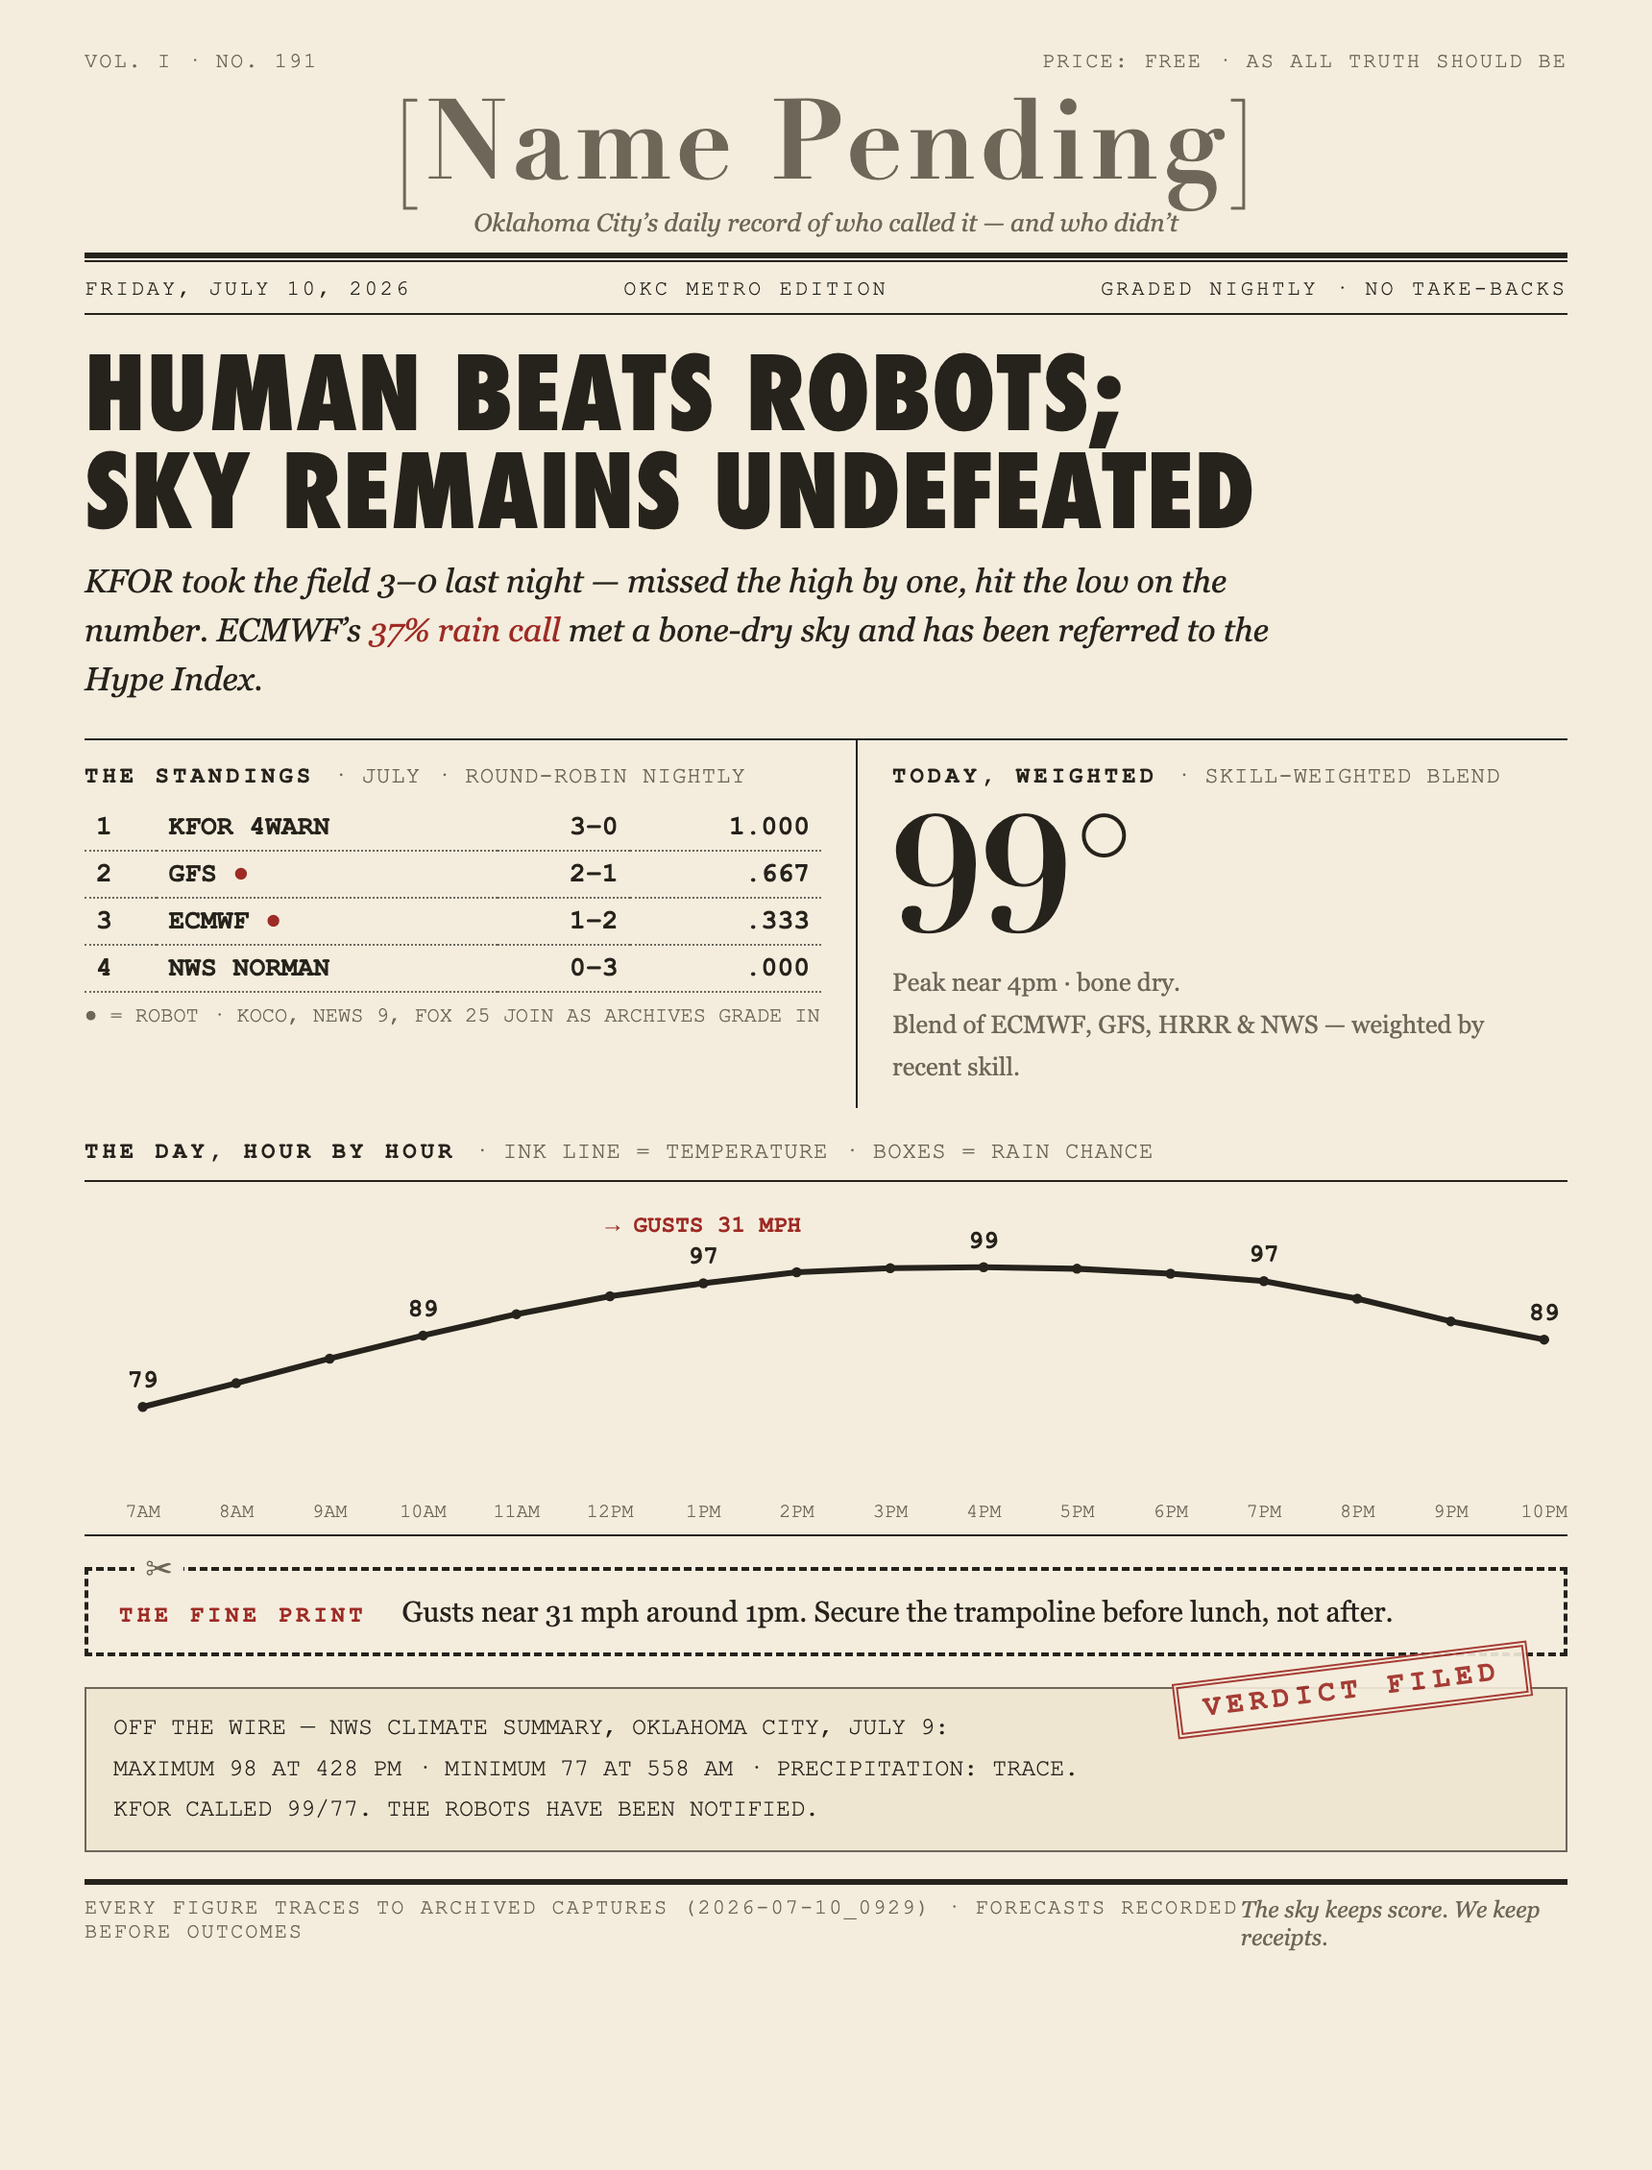
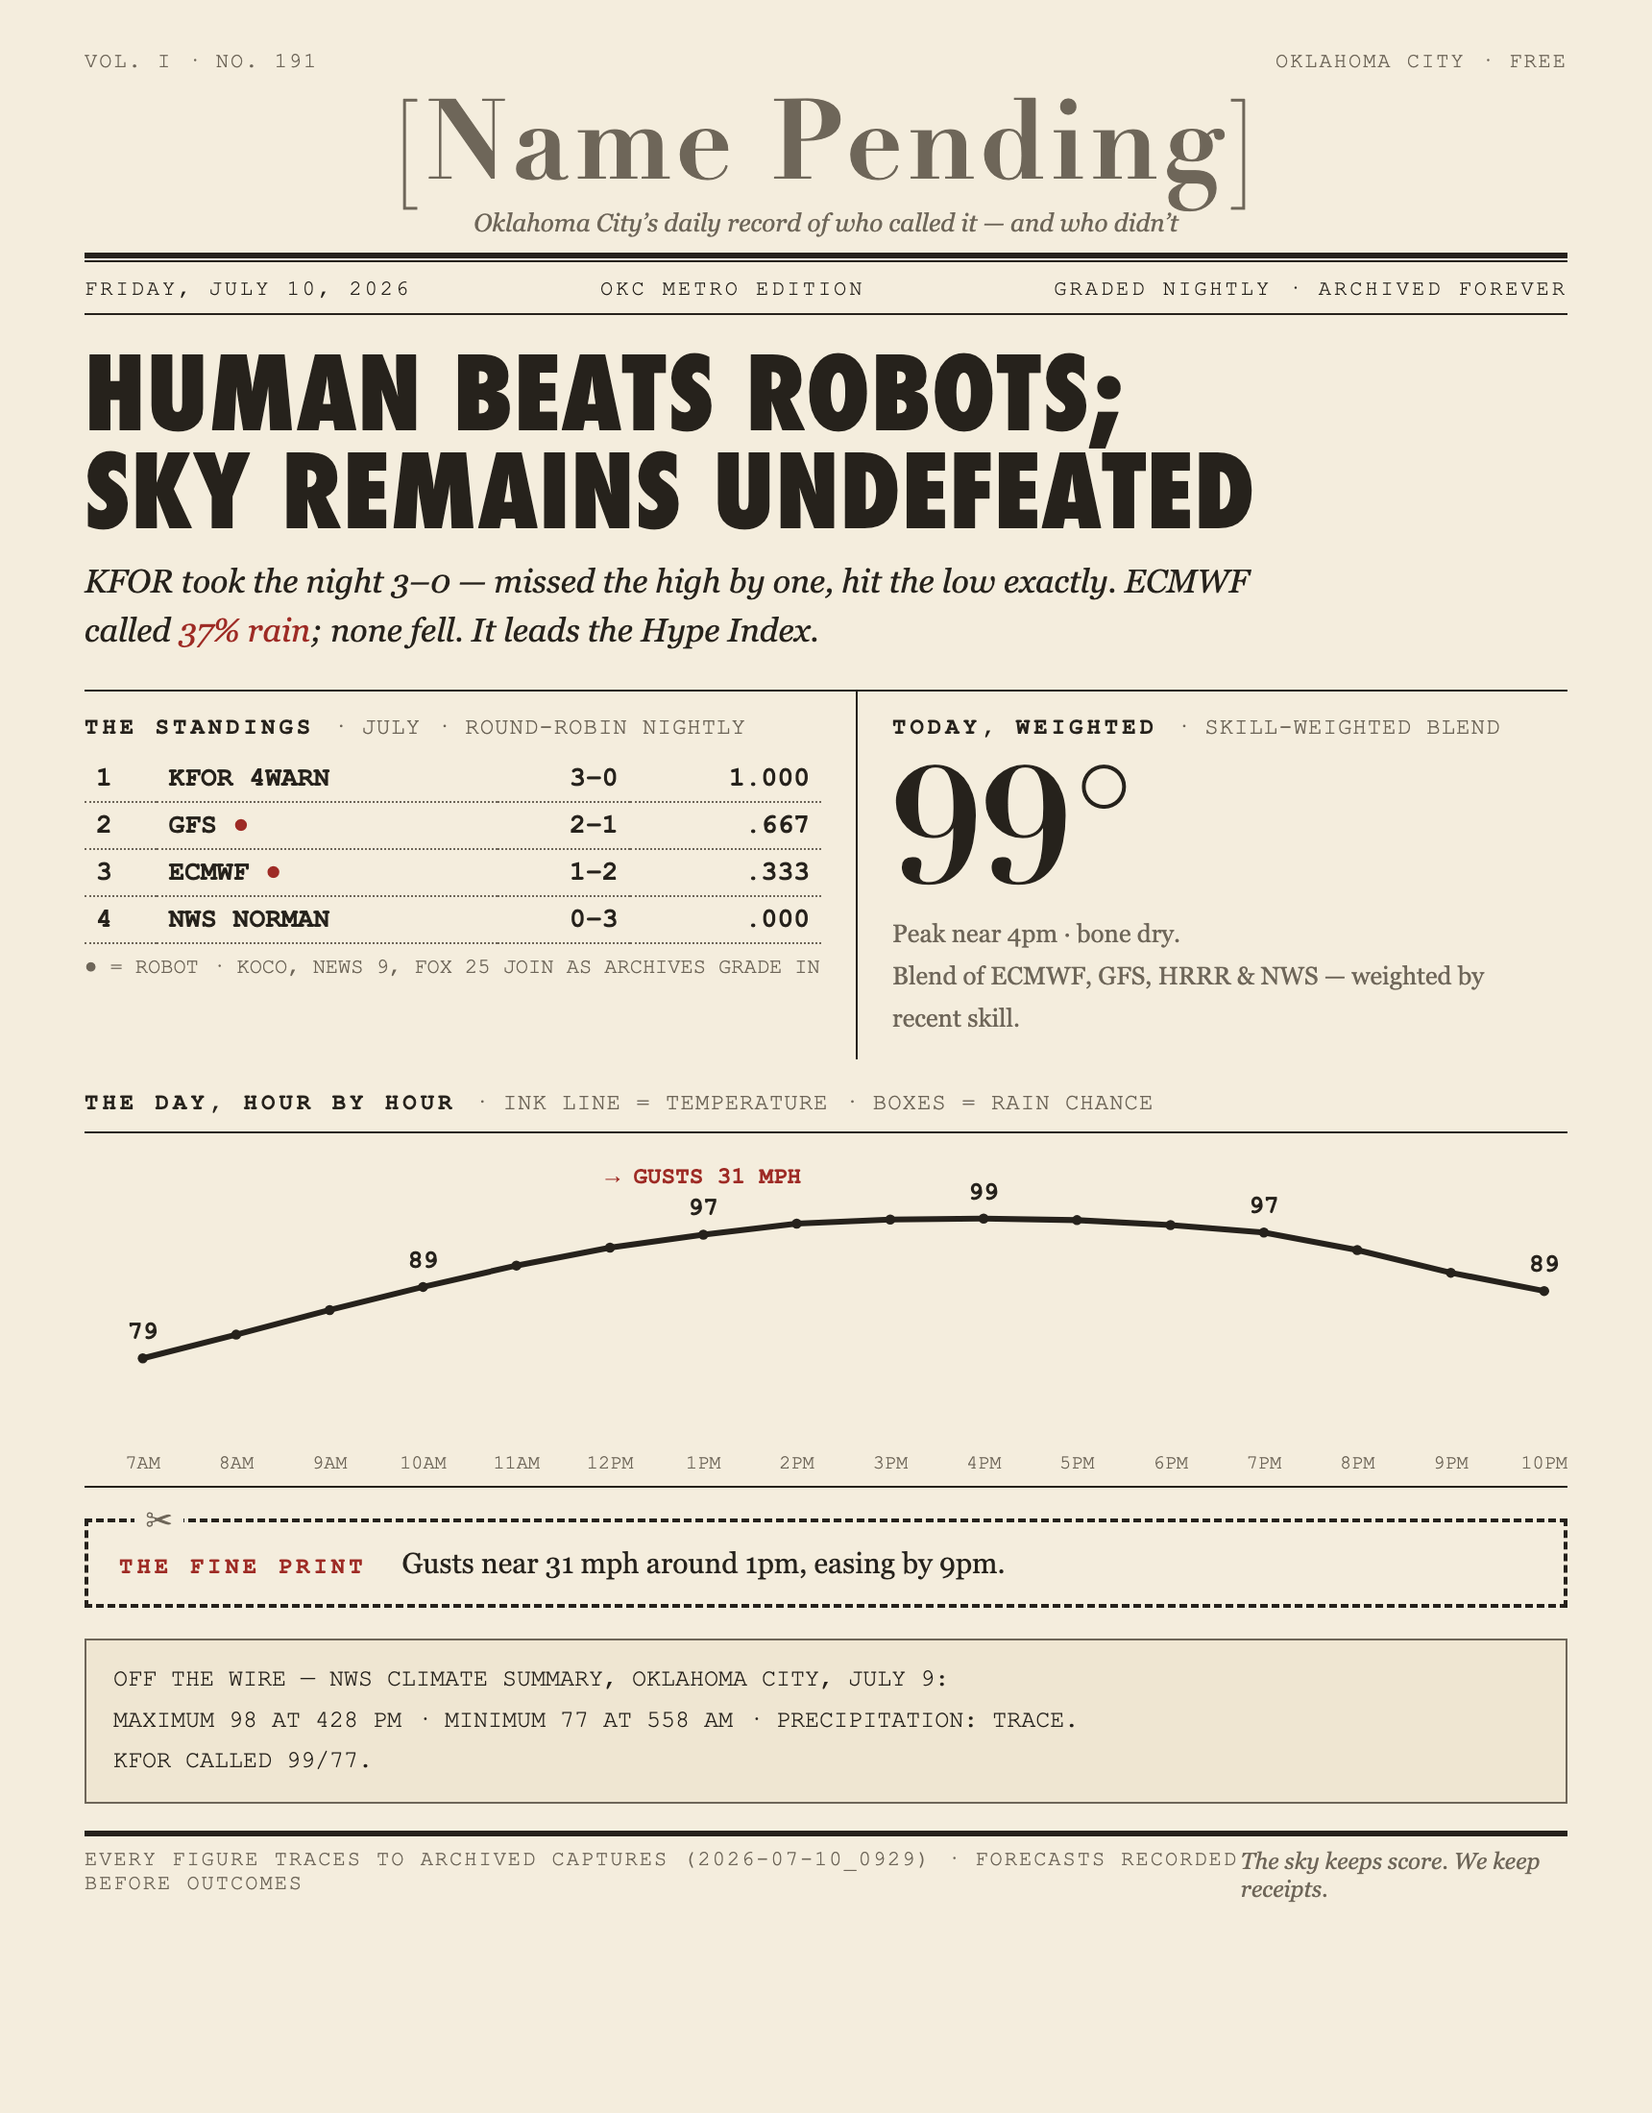
weather-oracle: v3.1 de-corn pass — stamp cut, utility copy straightened; voice law codified
Josh's editorial rule: the paper is the straight man, corniness stays with
the newscasters. Humor budget = the headline finding only.

diff --git a/products/weather-oracle/design/daily_v3.html b/products/weather-oracle/design/daily_v3.html
@@ -29,13 +29,12 @@
   .coupon b { font:700 12px 'Courier New', monospace; letter-spacing:2px; color:var(--red); }
   .coupon .scis { position:absolute; top:-12px; left:24px; background:var(--paper); padding:0 6px; font-size:14px; color:var(--faded); }
   .wire { background:#efe6d2; border:1px solid var(--faded); padding:10px 14px; font:12.5px/1.7 'Courier New', monospace; text-transform:uppercase; white-space:pre-wrap; position:relative; margin-bottom:14px; }
-  .stamp { position:absolute; right:18px; top:-14px; transform:rotate(-7deg); border:3px double var(--red); color:var(--red); padding:3px 12px; font:700 15px 'Courier New', monospace; letter-spacing:3px; background:var(--paper); opacity:.9; }
   .foot { border-top:3px solid var(--ink); padding-top:6px; display:flex; justify-content:space-between; font:11px 'Courier New', monospace; color:var(--faded); text-transform:uppercase; letter-spacing:1px; }
   .foot i { font:italic 12px Georgia, serif; text-transform:none; letter-spacing:0; }
 </style></head><body>
   <div class="ears">
     <div>Vol. I &middot; No. 191</div>
-    <div>Price: free &middot; as all truth should be</div>
+    <div>Oklahoma City &middot; free</div>
   </div>
   <div class="masthead"><span>[Name Pending]</span></div>
   <div class="mastline">Oklahoma City&rsquo;s daily record of who called it &mdash; and who didn&rsquo;t</div>
@@ -43,11 +42,11 @@
   <div class="dateline">
     <div>Friday, July 10, 2026</div>
     <div>OKC metro edition</div>
-    <div>Graded nightly &middot; no take-backs</div>
+    <div>Graded nightly &middot; archived forever</div>
   </div>
 
   <div class="headline">Human beats robots;<br>sky remains undefeated</div>
-  <div class="deck">KFOR took the field 3&ndash;0 last night &mdash; missed the high by one, hit the low on the number. ECMWF&rsquo;s <span class="rot">37% rain call</span> met a bone-dry sky and has been referred to the Hype Index.</div>
+  <div class="deck">KFOR took the night 3&ndash;0 &mdash; missed the high by one, hit the low exactly. ECMWF called <span class="rot">37% rain</span>; none fell. It leads the Hype Index.</div>
 
   <div class="cols">
     <div style="flex:1.15">
@@ -70,11 +69,11 @@
   <h3>The day, hour by hour <em>&middot; ink line = temperature &middot; boxes = rain chance</em></h3>
   <div class="strip"><svg viewBox="0 0 764 170" xmlns="http://www.w3.org/2000/svg" style="width:100%;display:block"><polyline points="30.0,108.0 78.1,95.8 126.3,83.1 174.4,71.2 222.5,60.2 270.7,51.0 318.8,44.3 366.9,38.6 415.1,36.5 463.2,36.0 511.3,36.8 559.5,39.3 607.6,43.2 655.7,52.2 703.9,63.9 752.0,73.3" fill="none" stroke="#26221c" stroke-width="3"/><circle cx="30.0" cy="108.0" r="2.6" fill="#26221c"/><text x="30.0" y="98.0" text-anchor="middle" font-family="Courier New" font-weight="700" font-size="13" fill="#26221c">79</text><text x="30.0" y="165" text-anchor="middle" font-family="Courier New" font-size="10" fill="#6e6659">7AM</text><circle cx="78.1" cy="95.8" r="2.6" fill="#26221c"/><text x="78.1" y="165" text-anchor="middle" font-family="Courier New" font-size="10" fill="#6e6659">8AM</text><circle cx="126.3" cy="83.1" r="2.6" fill="#26221c"/><text x="126.3" y="165" text-anchor="middle" font-family="Courier New" font-size="10" fill="#6e6659">9AM</text><circle cx="174.4" cy="71.2" r="2.6" fill="#26221c"/><text x="174.4" y="61.2" text-anchor="middle" font-family="Courier New" font-weight="700" font-size="13" fill="#26221c">89</text><text x="174.4" y="165" text-anchor="middle" font-family="Courier New" font-size="10" fill="#6e6659">10AM</text><circle cx="222.5" cy="60.2" r="2.6" fill="#26221c"/><text x="222.5" y="165" text-anchor="middle" font-family="Courier New" font-size="10" fill="#6e6659">11AM</text><circle cx="270.7" cy="51.0" r="2.6" fill="#26221c"/><text x="270.7" y="165" text-anchor="middle" font-family="Courier New" font-size="10" fill="#6e6659">12PM</text><circle cx="318.8" cy="44.3" r="2.6" fill="#26221c"/><text x="318.8" y="34.3" text-anchor="middle" font-family="Courier New" font-weight="700" font-size="13" fill="#26221c">97</text><text x="318.8" y="165" text-anchor="middle" font-family="Courier New" font-size="10" fill="#6e6659">1PM</text><text x="318.8" y="18" text-anchor="middle" font-family="Courier New" font-weight="700" font-size="12" fill="#9e2b25">→ GUSTS 31 MPH</text><circle cx="366.9" cy="38.6" r="2.6" fill="#26221c"/><text x="366.9" y="165" text-anchor="middle" font-family="Courier New" font-size="10" fill="#6e6659">2PM</text><circle cx="415.1" cy="36.5" r="2.6" fill="#26221c"/><text x="415.1" y="165" text-anchor="middle" font-family="Courier New" font-size="10" fill="#6e6659">3PM</text><circle cx="463.2" cy="36.0" r="2.6" fill="#26221c"/><text x="463.2" y="26.0" text-anchor="middle" font-family="Courier New" font-weight="700" font-size="13" fill="#26221c">99</text><text x="463.2" y="165" text-anchor="middle" font-family="Courier New" font-size="10" fill="#6e6659">4PM</text><circle cx="511.3" cy="36.8" r="2.6" fill="#26221c"/><text x="511.3" y="165" text-anchor="middle" font-family="Courier New" font-size="10" fill="#6e6659">5PM</text><circle cx="559.5" cy="39.3" r="2.6" fill="#26221c"/><text x="559.5" y="165" text-anchor="middle" font-family="Courier New" font-size="10" fill="#6e6659">6PM</text><circle cx="607.6" cy="43.2" r="2.6" fill="#26221c"/><text x="607.6" y="33.2" text-anchor="middle" font-family="Courier New" font-weight="700" font-size="13" fill="#26221c">97</text><text x="607.6" y="165" text-anchor="middle" font-family="Courier New" font-size="10" fill="#6e6659">7PM</text><circle cx="655.7" cy="52.2" r="2.6" fill="#26221c"/><text x="655.7" y="165" text-anchor="middle" font-family="Courier New" font-size="10" fill="#6e6659">8PM</text><circle cx="703.9" cy="63.9" r="2.6" fill="#26221c"/><text x="703.9" y="165" text-anchor="middle" font-family="Courier New" font-size="10" fill="#6e6659">9PM</text><circle cx="752.0" cy="73.3" r="2.6" fill="#26221c"/><text x="752.0" y="63.3" text-anchor="middle" font-family="Courier New" font-weight="700" font-size="13" fill="#26221c">89</text><text x="752.0" y="165" text-anchor="middle" font-family="Courier New" font-size="10" fill="#6e6659">10PM</text></svg></div>
 
-  <div class="coupon"><span class="scis">&#9986;</span><b>THE FINE PRINT&nbsp;&nbsp;</b>Gusts near 31 mph around 1pm. Secure the trampoline before lunch, not after.</div>
+  <div class="coupon"><span class="scis">&#9986;</span><b>THE FINE PRINT&nbsp;&nbsp;</b>Gusts near 31 mph around 1pm, easing by 9pm.</div>
 
-  <div class="wire"><div class="stamp">VERDICT FILED</div>OFF THE WIRE &mdash; NWS CLIMATE SUMMARY, OKLAHOMA CITY, JULY 9:
+  <div class="wire">OFF THE WIRE &mdash; NWS CLIMATE SUMMARY, OKLAHOMA CITY, JULY 9:
 MAXIMUM 98 AT 428 PM &middot; MINIMUM 77 AT 558 AM &middot; PRECIPITATION: TRACE.
-KFOR CALLED 99/77. THE ROBOTS HAVE BEEN NOTIFIED.</div>
+KFOR CALLED 99/77.</div>
 
   <div class="foot">
     <div>Every figure traces to archived captures (2026-07-10_0929) &middot; forecasts recorded before outcomes</div>

diff --git a/products/weather-oracle/design/build_daily_v3.py b/products/weather-oracle/design/build_daily_v3.py
@@ -69,15 +69,17 @@ rain_line = (f'rain window {ampm(rain_hours[0])}–{ampm(rain_hours[-1] + 1)} ({
              if rain_hours else ('a stray shower at most' if max_pop >= 15 else 'bone dry'))
 
 if max_gust_row['gust'] >= 25:
-    fine_print = (f'Gusts near {round(max_gust_row["gust"])} mph around {ampm(max_gust_row["h"]).lower()}. '
-                  'Secure the trampoline before lunch, not after.')
+    calm = next((ampm(h['h']).lower() for h in hours
+                 if h['h'] > max_gust_row['h'] and h['gust'] < 20), None)
+    fine_print = (f'Gusts near {round(max_gust_row["gust"])} mph around {ampm(max_gust_row["h"]).lower()}'
+                  + (f', easing by {calm}.' if calm else ' through the afternoon.'))
 elif max_feels_row and (max_feels_row['feels'] - peak['temp']) >= 4:
     fine_print = (f'Feels-like tops {round(max_feels_row["feels"])}° at {ampm(max_feels_row["h"]).lower()} — '
-                  f'{round(max_feels_row["feels"] - peak["temp"])}° hotter than any number said on TV.')
+                  f'{round(max_feels_row["feels"] - peak["temp"])}° above the air temperature.')
 elif rain_hours:
-    fine_print = f'The rain, if it comes, is a {ampm(rain_hours[0]).lower()}–{ampm(rain_hours[-1] + 1).lower()} problem. The morning is spoken for.'
+    fine_print = f'Rain, if any, arrives {ampm(rain_hours[0]).lower()}–{ampm(rain_hours[-1] + 1).lower()}. Dry until then.'
 else:
-    fine_print = 'No wind story, no rain story, no heat trick. A forecast with nothing to hide.'
+    fine_print = 'No wind, rain, or heat-index story today.'
 
 # ink-on-newsprint hour strip
 W, H, PAD_L, PAD_R, TOP, BOT = 764, 170, 30, 12, 36, 36
@@ -143,13 +145,12 @@ html = f"""<!DOCTYPE html>
   .coupon b {{ font:700 12px 'Courier New', monospace; letter-spacing:2px; color:var(--red); }}
   .coupon .scis {{ position:absolute; top:-12px; left:24px; background:var(--paper); padding:0 6px; font-size:14px; color:var(--faded); }}
   .wire {{ background:#efe6d2; border:1px solid var(--faded); padding:10px 14px; font:12.5px/1.7 'Courier New', monospace; text-transform:uppercase; white-space:pre-wrap; position:relative; margin-bottom:14px; }}
-  .stamp {{ position:absolute; right:18px; top:-14px; transform:rotate(-7deg); border:3px double var(--red); color:var(--red); padding:3px 12px; font:700 15px 'Courier New', monospace; letter-spacing:3px; background:var(--paper); opacity:.9; }}
   .foot {{ border-top:3px solid var(--ink); padding-top:6px; display:flex; justify-content:space-between; font:11px 'Courier New', monospace; color:var(--faded); text-transform:uppercase; letter-spacing:1px; }}
   .foot i {{ font:italic 12px Georgia, serif; text-transform:none; letter-spacing:0; }}
 </style></head><body>
   <div class="ears">
     <div>Vol. I &middot; No. {vol_no}</div>
-    <div>Price: free &middot; as all truth should be</div>
+    <div>Oklahoma City &middot; free</div>
   </div>
   <div class="masthead"><span>[Name Pending]</span></div>
   <div class="mastline">Oklahoma City&rsquo;s daily record of who called it &mdash; and who didn&rsquo;t</div>
@@ -157,11 +158,11 @@ html = f"""<!DOCTYPE html>
   <div class="dateline">
     <div>{now.strftime('%A, %B %-d, %Y')}</div>
     <div>OKC metro edition</div>
-    <div>Graded nightly &middot; no take-backs</div>
+    <div>Graded nightly &middot; archived forever</div>
   </div>
 
   <div class="headline">Human beats robots;<br>sky remains undefeated</div>
-  <div class="deck">KFOR took the field 3&ndash;0 last night &mdash; missed the high by one, hit the low on the number. ECMWF&rsquo;s <span class="rot">37% rain call</span> met a bone-dry sky and has been referred to the Hype Index.</div>
+  <div class="deck">KFOR took the night 3&ndash;0 &mdash; missed the high by one, hit the low exactly. ECMWF called <span class="rot">37% rain</span>; none fell. It leads the Hype Index.</div>
 
   <div class="cols">
     <div style="flex:1.15">
@@ -186,9 +187,9 @@ html = f"""<!DOCTYPE html>
 
   <div class="coupon"><span class="scis">&#9986;</span><b>THE FINE PRINT&nbsp;&nbsp;</b>{fine_print}</div>
 
-  <div class="wire"><div class="stamp">VERDICT FILED</div>OFF THE WIRE &mdash; NWS CLIMATE SUMMARY, OKLAHOMA CITY, JULY 9:
+  <div class="wire">OFF THE WIRE &mdash; NWS CLIMATE SUMMARY, OKLAHOMA CITY, JULY 9:
 MAXIMUM 98 AT 428 PM &middot; MINIMUM 77 AT 558 AM &middot; PRECIPITATION: TRACE.
-KFOR CALLED 99/77. THE ROBOTS HAVE BEEN NOTIFIED.</div>
+KFOR CALLED 99/77.</div>
 
   <div class="foot">
     <div>Every figure traces to archived captures ({cap_dir.name}) &middot; forecasts recorded before outcomes</div>

diff --git a/projects/weather-oracle.md b/projects/weather-oracle.md
@@ -57,6 +57,15 @@
   tonight" per suburb (Edmond, Warr Acres, The Village); hyperlocal grain
   from 3km model data + nearest-station actuals, honestly labeled.
 - **Edge law:** grade channels/broadcasts, never named meteorologists.
+- **Voice law (Josh, 2026-07-10):** the paper is the straight man — "leave
+  the corniness to the newscaster." No stamps, no quips in utility copy,
+  no editorial winks. The humor budget is the headline verdict only, and
+  even that must be a finding ("SKY REMAINS UNDEFEATED"), not a joke.
+  Fine Print = plain declarative utility. The material is funny; we are not.
+- **Design law (2026-07-10):** newsprint/almanac direction locked (v3):
+  Didot masthead + ears, wood-type headline, Courier agate tables,
+  OFF-THE-WIRE teletype block quoting the official verdict, ink-line hour
+  strip. "Corpo" (system sans, hairlines, chips) is dead.
 - **Sequencing:** capture pipeline can start NOW ($0, read-only, no
   approvals) — skill scores need weeks of history; CRE commit layer bolts
   on at C0 after cre CLI install approval; x402/mainnet gated later.
